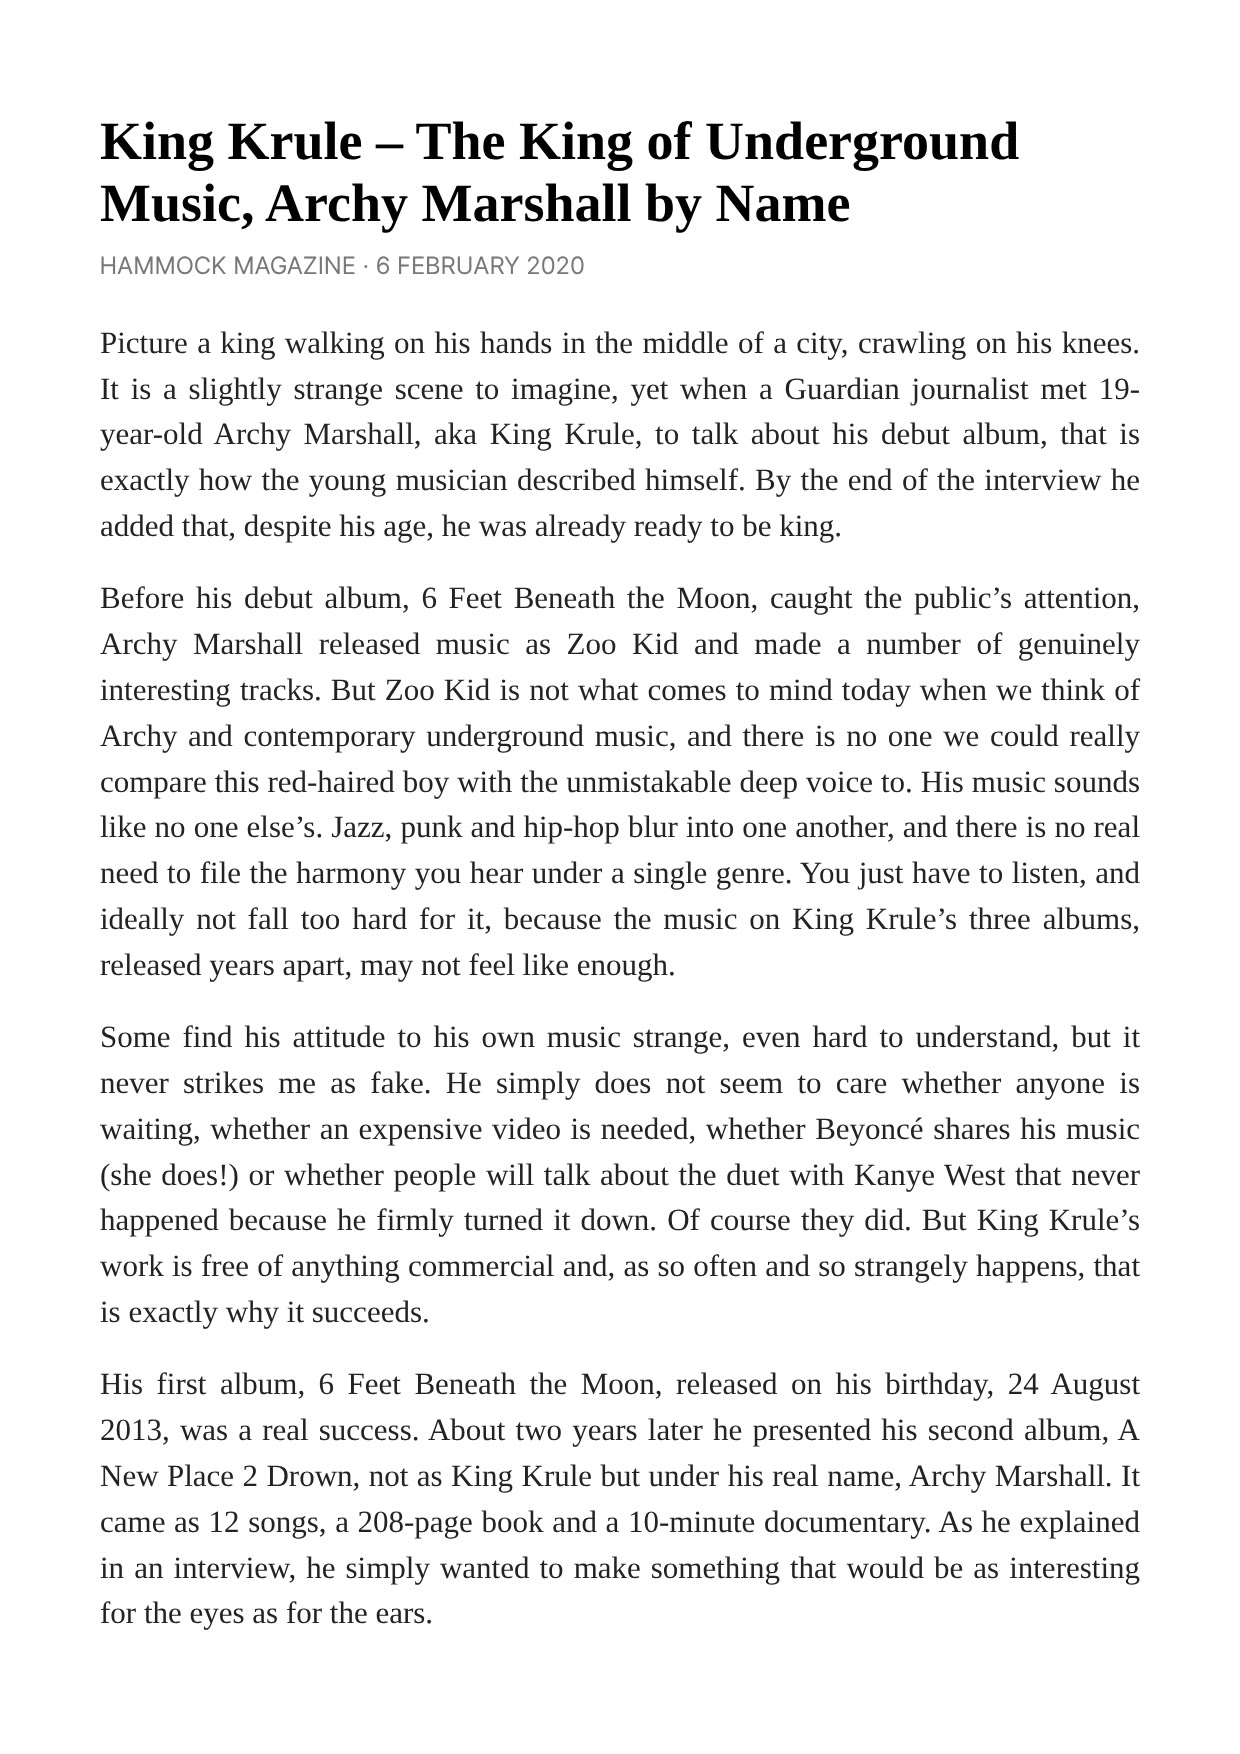
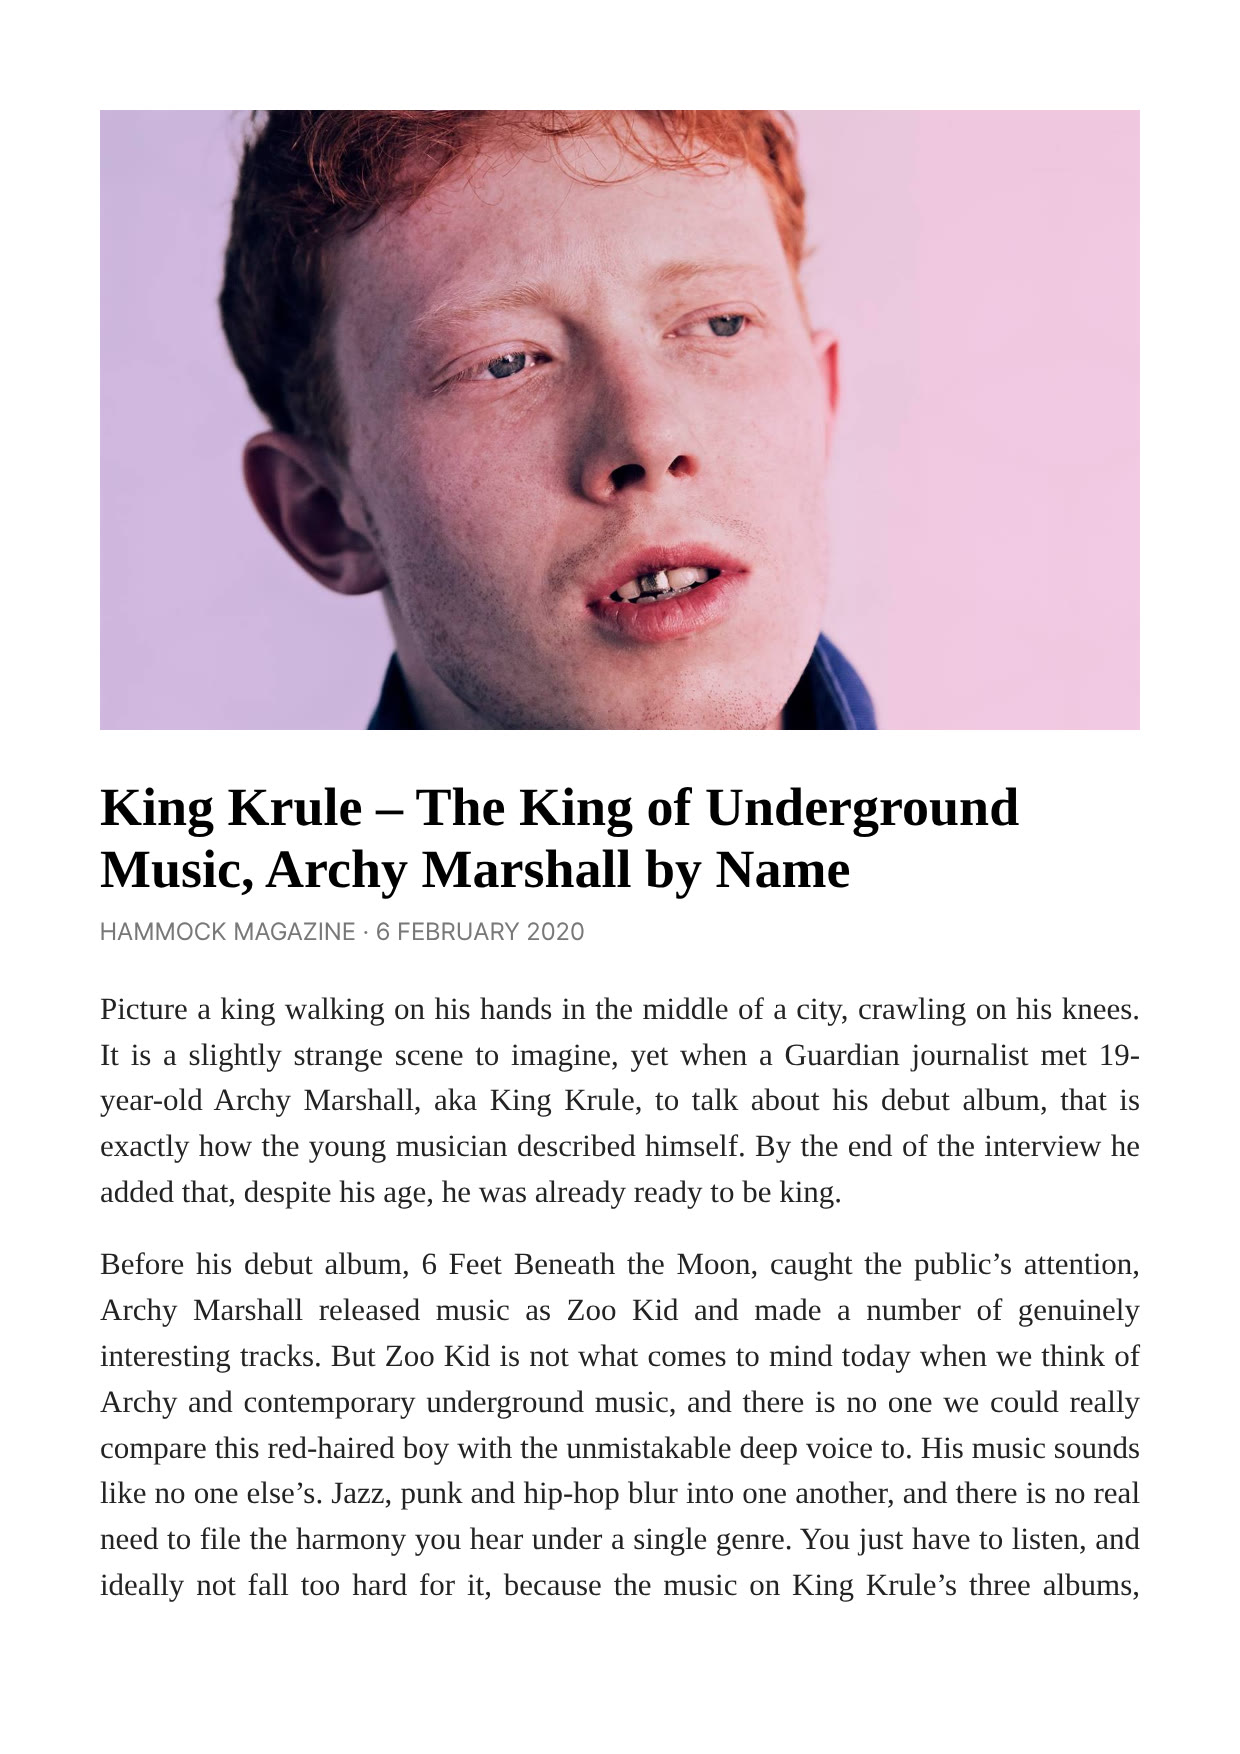
King Krule article: add photo to cover and first page
Claude-Session: https://claude.ai/code/session_01BHxjzkN2JnKCL3Q4RUhGs4

diff --git a/content.js b/content.js
@@ -55,7 +55,7 @@ window.SITE = {
     {"id": "diane-pernet", "h": "Interview with Diane Pernet", "cover": "images/mag/diane-pernet/cover.jpg", "pages": ["images/mag/diane-pernet/page-01.jpg", "images/mag/diane-pernet/page-02.jpg"], "cat": "interviews"},
     {"id": "barnaba-fornasetti", "h": "Interview with Barnaba Fornasetti", "cover": "images/mag/barnaba-fornasetti/cover.jpg", "pages": ["images/mag/barnaba-fornasetti/page-01.jpg", "images/mag/barnaba-fornasetti/page-02.jpg", "images/mag/barnaba-fornasetti/page-03.jpg"], "cat": "interviews"},
     {"tags":["music"],"id": "alva-noto", "h": "Interview with Alva Noto", "cover": "images/mag/alva-noto/cover.jpg", "pages": ["images/mag/alva-noto/page-01.jpg", "images/mag/alva-noto/page-02.jpg"], "cat": "interviews"},
-    {"tags":["music"],"id": "king-krule", "h": "King Krule – The King of Underground Music", "cover": "images/mag/king-krule/cover.jpg", "pages": ["images/mag/king-krule/page-01.jpg", "images/mag/king-krule/page-02.jpg"], "cat": "music"},
+    {"tags":["music"],"id": "king-krule", "h": "King Krule – The King of Underground Music", "cover": "images/mag/king-krule/cover.jpg?v=2", "pages": ["images/mag/king-krule/page-01.jpg?v=2", "images/mag/king-krule/page-02.jpg?v=2"], "cat": "music"},
     {"id": "cristobal-balenciaga", "h": "Cristóbal Balenciaga — Designer of the Future", "cover": "images/mag/cristobal-balenciaga/cover.jpg", "pages": ["images/mag/cristobal-balenciaga/page-01.jpg", "images/mag/cristobal-balenciaga/page-02.jpg"], "cat": "fashion"},
     {"id": "raf-simons", "h": "The 8 Best Collections from Raf Simons’s Career", "cover": "images/mag/raf-simons/cover.jpg", "pages": ["images/mag/raf-simons/page-01.jpg", "images/mag/raf-simons/page-02.jpg", "images/mag/raf-simons/page-03.jpg"], "cat": "fashion"},
     {"id": "john-galliano", "h": "John Galliano’s Metamorphosis and His Great Return to Fashion", "cover": "images/mag/john-galliano/cover.jpg", "pages": ["images/mag/john-galliano/page-01.jpg", "images/mag/john-galliano/page-02.jpg", "images/mag/john-galliano/page-03.jpg"], "cat": "fashion"},
